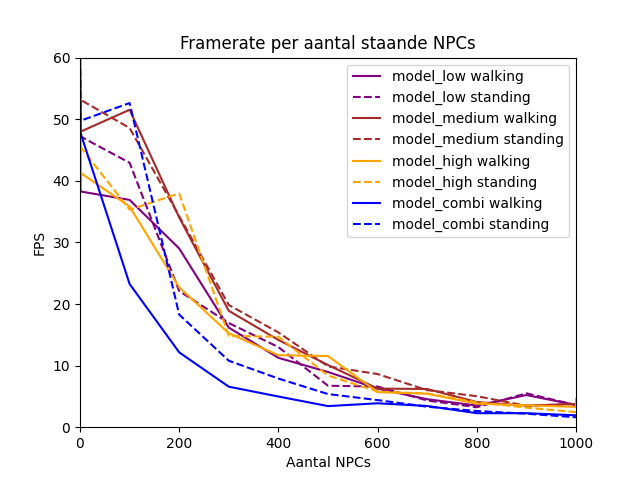
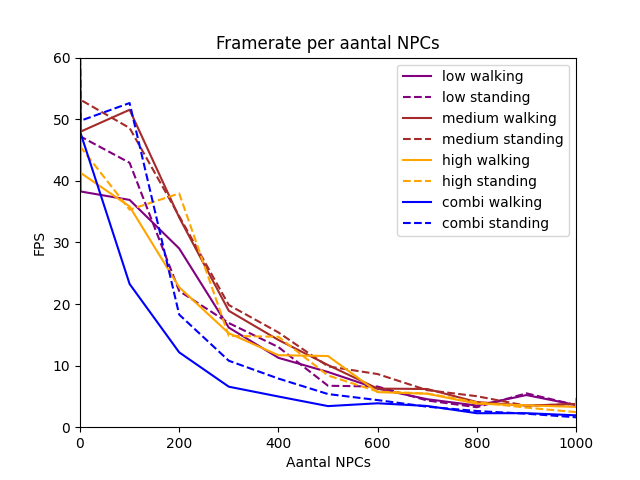
corrected labels diagram

Changed region(s): [[0.2812, 0.0625, 0.875, 0.5]]

diff --git a/experiments/diagram.py b/experiments/diagram.py
@@ -5,7 +5,6 @@ import numpy as np
 
 
 def sort_label(label):
-    label = label.split("model_")[1]
     algo = label.split(" ")[0]
     moveable = label.split(" ")[1]
     arr_algo = ["sprite", "low", "medium", "high", "combi", "combi_sprite"]
@@ -15,6 +14,7 @@ def sort_label(label):
 
 def plot_diagram(x_data_list, y_data_list, labels, linestyles, colors, title, xlabel, ylabel, save_path, xlim=None, ylim=None):
     # Sort by label
+    labels = [label.split("model_")[1] for label in labels]
     data = sorted(zip(labels, x_data_list, y_data_list,
                   linestyles, colors), key=lambda x: sort_label(x[0]))
 
@@ -130,16 +130,14 @@ def make_diagrams():
             linestyle = "solid" if moveable_folder == "walking" else "dashed"
             linestyles.append(linestyle)
 
-            naam = "lopende" if moveable_folder == "walking" else "staande"
-
     maxAmountNPCs = max([max(amountNPCs) for amountNPCs in amountNPCs_list])
     plot_diagram(amountNPCs_list, fps_avg_list, labels, linestyles, colors,
-                 f"Framerate per aantal {naam} NPCs",
+                 f"Framerate per aantal NPCs",
                  "Aantal NPCs", "FPS", "data/fps.png",
                  xlim=(0, maxAmountNPCs),
                  ylim=(0, 60))
     plot_diagram(amountNPCs_list, raf_avg_list, labels, linestyles, colors,
-                 f"Latency per aantal {naam} NPCs",
+                 f"Latency per aantal NPCs",
                  "Aantal NPCs", "rAF", "data/raf.png",
                  xlim=(0, maxAmountNPCs),
                  ylim=(0, 600))
